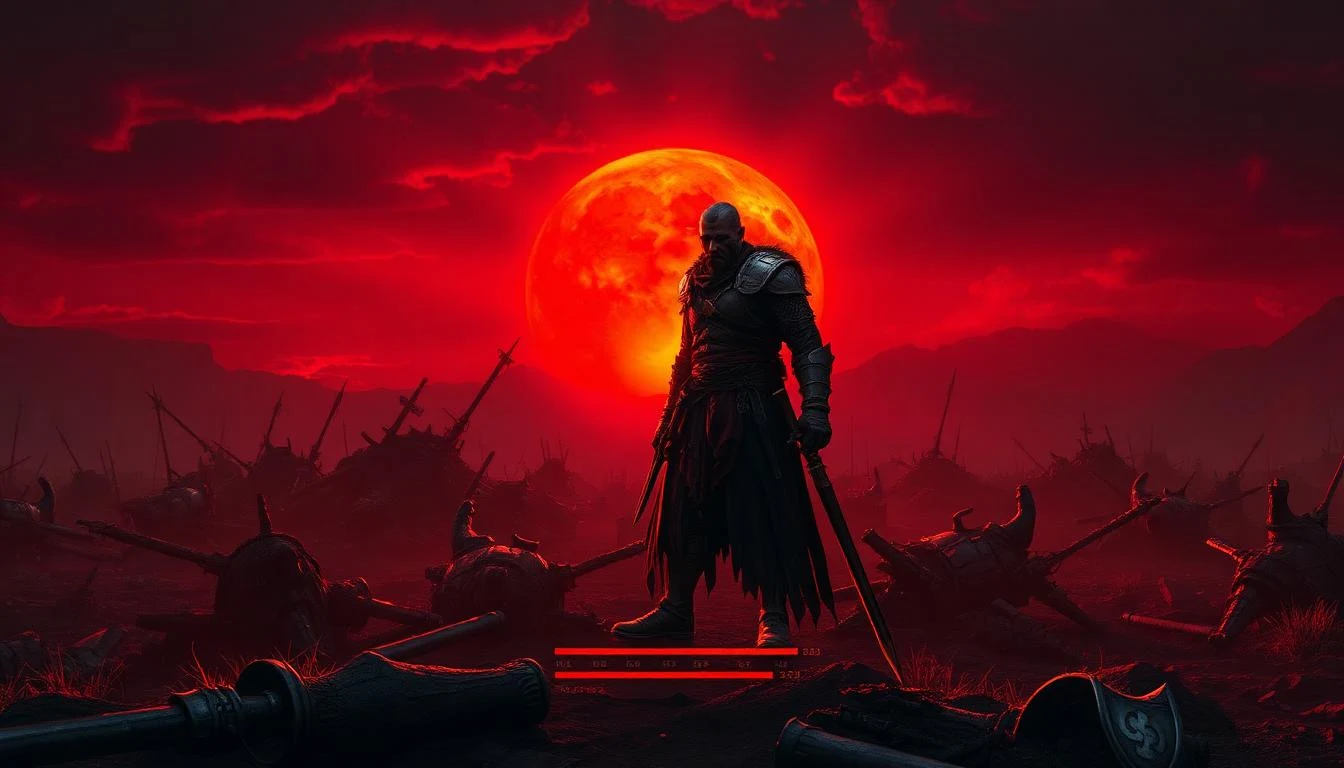
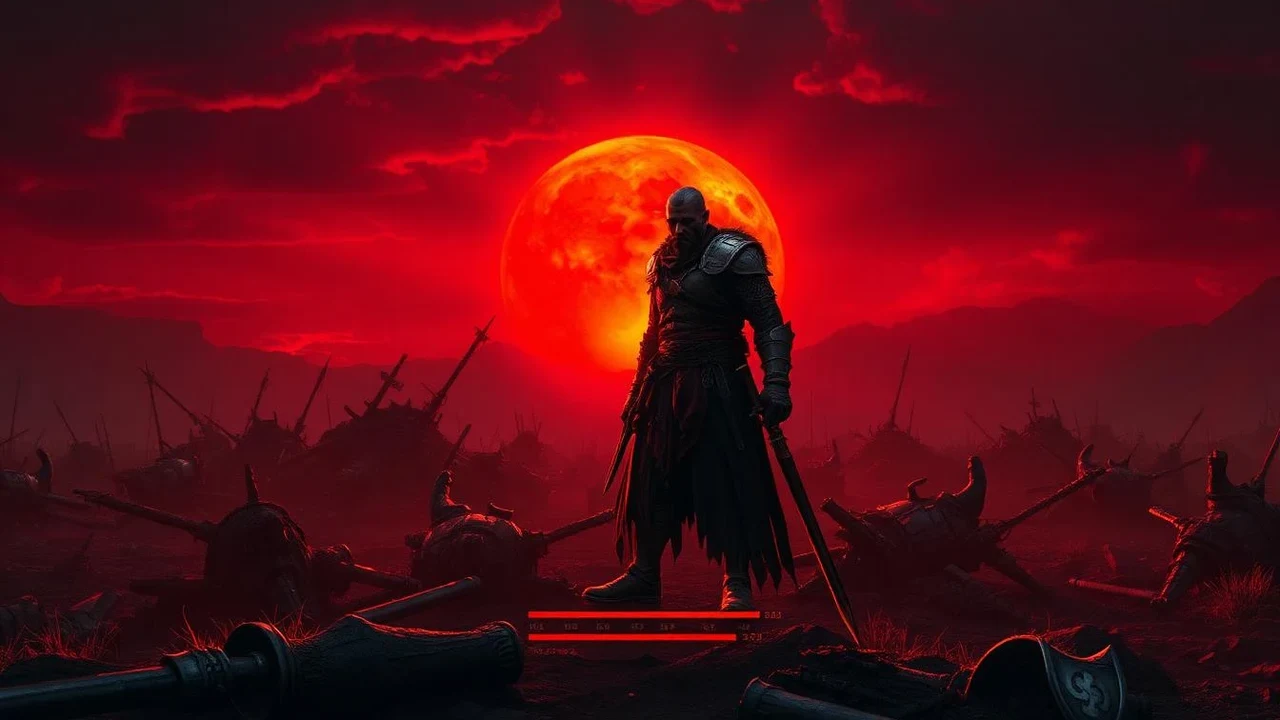
fix: imagens do painel Crimson Desert — WebP válido + proporção 16:9
PROBLEMAS CORRIGIDOS:

1. Artigo 'Mapa de Pywel' não tinha propriedade 'image' no array articles[]
   → <img src={undefined}> renderizava tag quebrada sem imagem
   → Adicionado: image: crimsonMapaImg

2. Import da imagem do mapa apontava para placeholder de 9KB
   → crimson-desert-mapa.webp (9KB) substituído por
   → crimson-desert-mapa-pywel.webp (276KB, imagem real do mapa)

3. Proporção incorreta nas imagens dos cards do painel:
   → crimson-desert-combate.webp: 1024x1024 (quadrado) → 1280x720 (16:9)
   → crimson-desert-review.webp: 1344x768 (1.75:1) → 1280x720 (16:9)
   → crimson-desert-builds.webp: 1344x768 (1.75:1) → 1280x720 (16:9)
   → crimson-desert-guia.webp: 1024x1024 (quadrado) → 1280x720 (16:9)
   (container usa aspect-video — imagens quadradas ficavam cortadas)

RESULTADO FINAL:
  ✅ Hero banner: 1920x1080 WebP válido
  ✅ 5 cards: todos 1280x720 WebP válido
  ✅ Todos os 5 artigos com image definida no array
  ✅ Mapa usando imagem real (276KB) não o placeholder (9KB)

diff --git a/src/pages/posts/CrimsonDesertPanel.tsx b/src/pages/posts/CrimsonDesertPanel.tsx
@@ -6,7 +6,7 @@ import crimsonHeroImg from "@/assets/crimson-desert-hero.webp";
 import crimsonGuiaImg from "@/assets/crimson-desert-guia.webp";
 import crimsonCombateImg from "@/assets/crimson-desert-combate.webp";
 import crimsonReviewImg from "@/assets/crimson-desert-review.webp";
-import crimsonMapaImg    from "@/assets/crimson-desert-mapa.webp";
+import crimsonMapaImg    from "@/assets/crimson-desert-mapa-pywel.webp";
 import crimsonBuildsImg from "@/assets/crimson-desert-builds.webp";
 
 const CrimsonDesertPanel = () => {
@@ -48,6 +48,7 @@ const CrimsonDesertPanel = () => {
       title: "Mapa de Pywel",
       subtitle: "Todas as Regiões Explicadas",
       desc: "Pywel tem 5 regiões + The Abyss — tamanho, biomas, bosses e como se locomover.",
+      image: crimsonMapaImg,
       btn: "Ver Mapa",
     },
   ];
